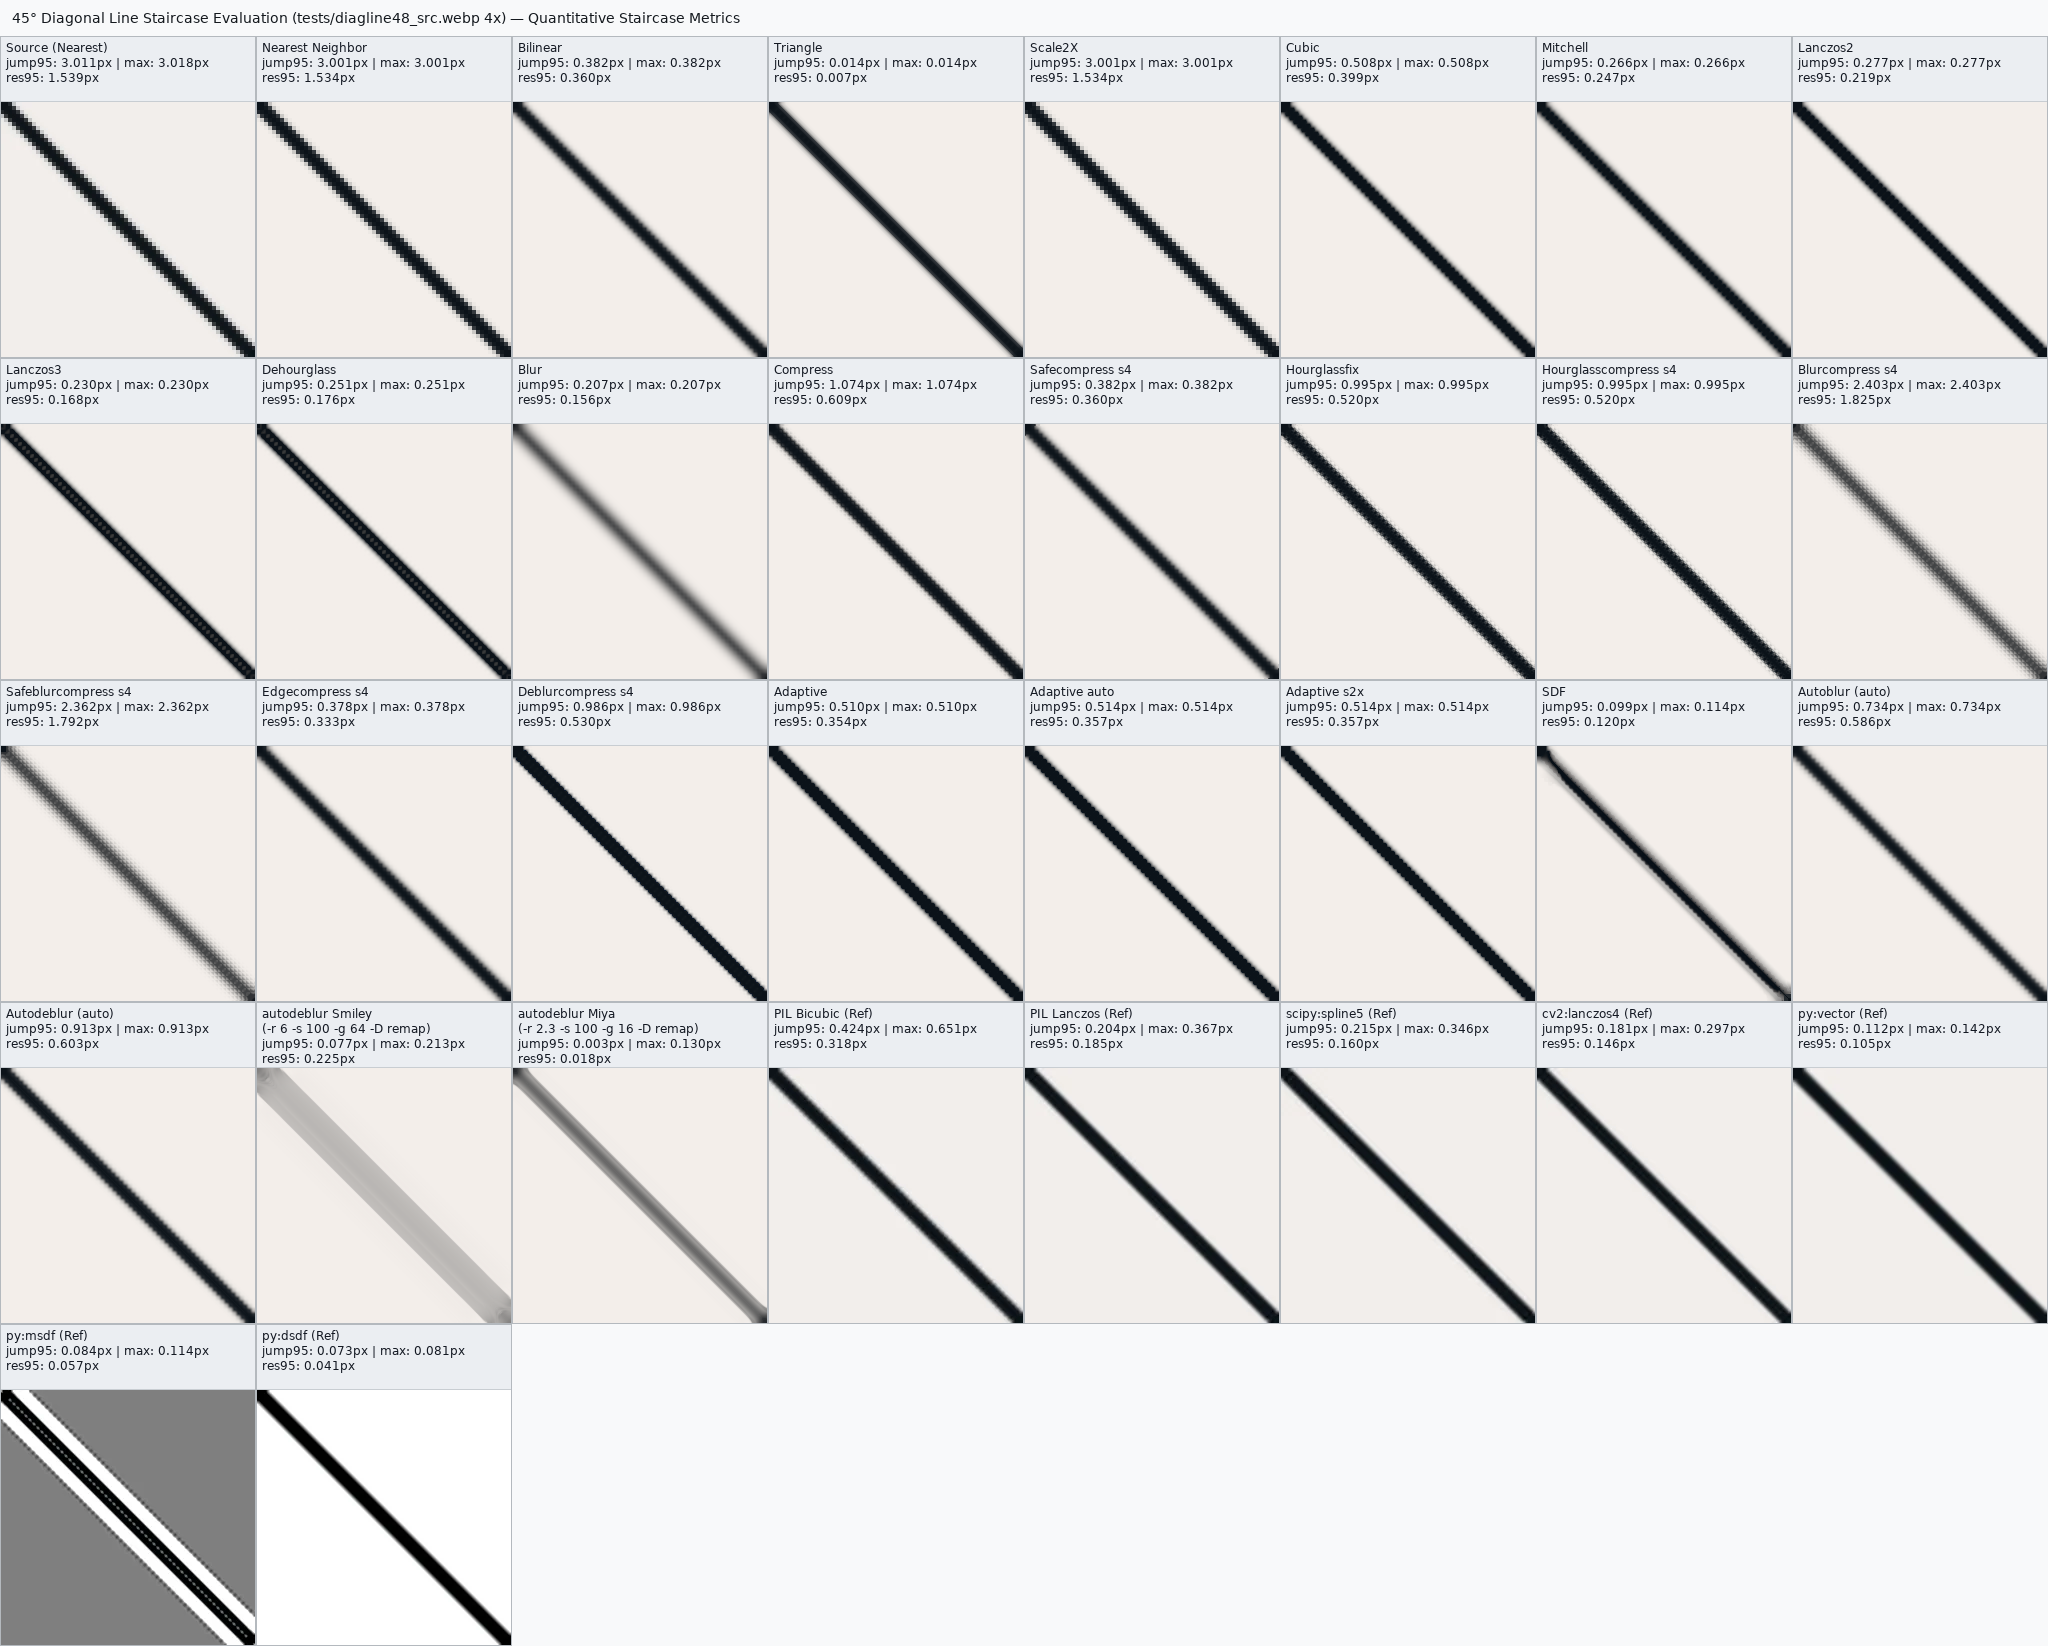
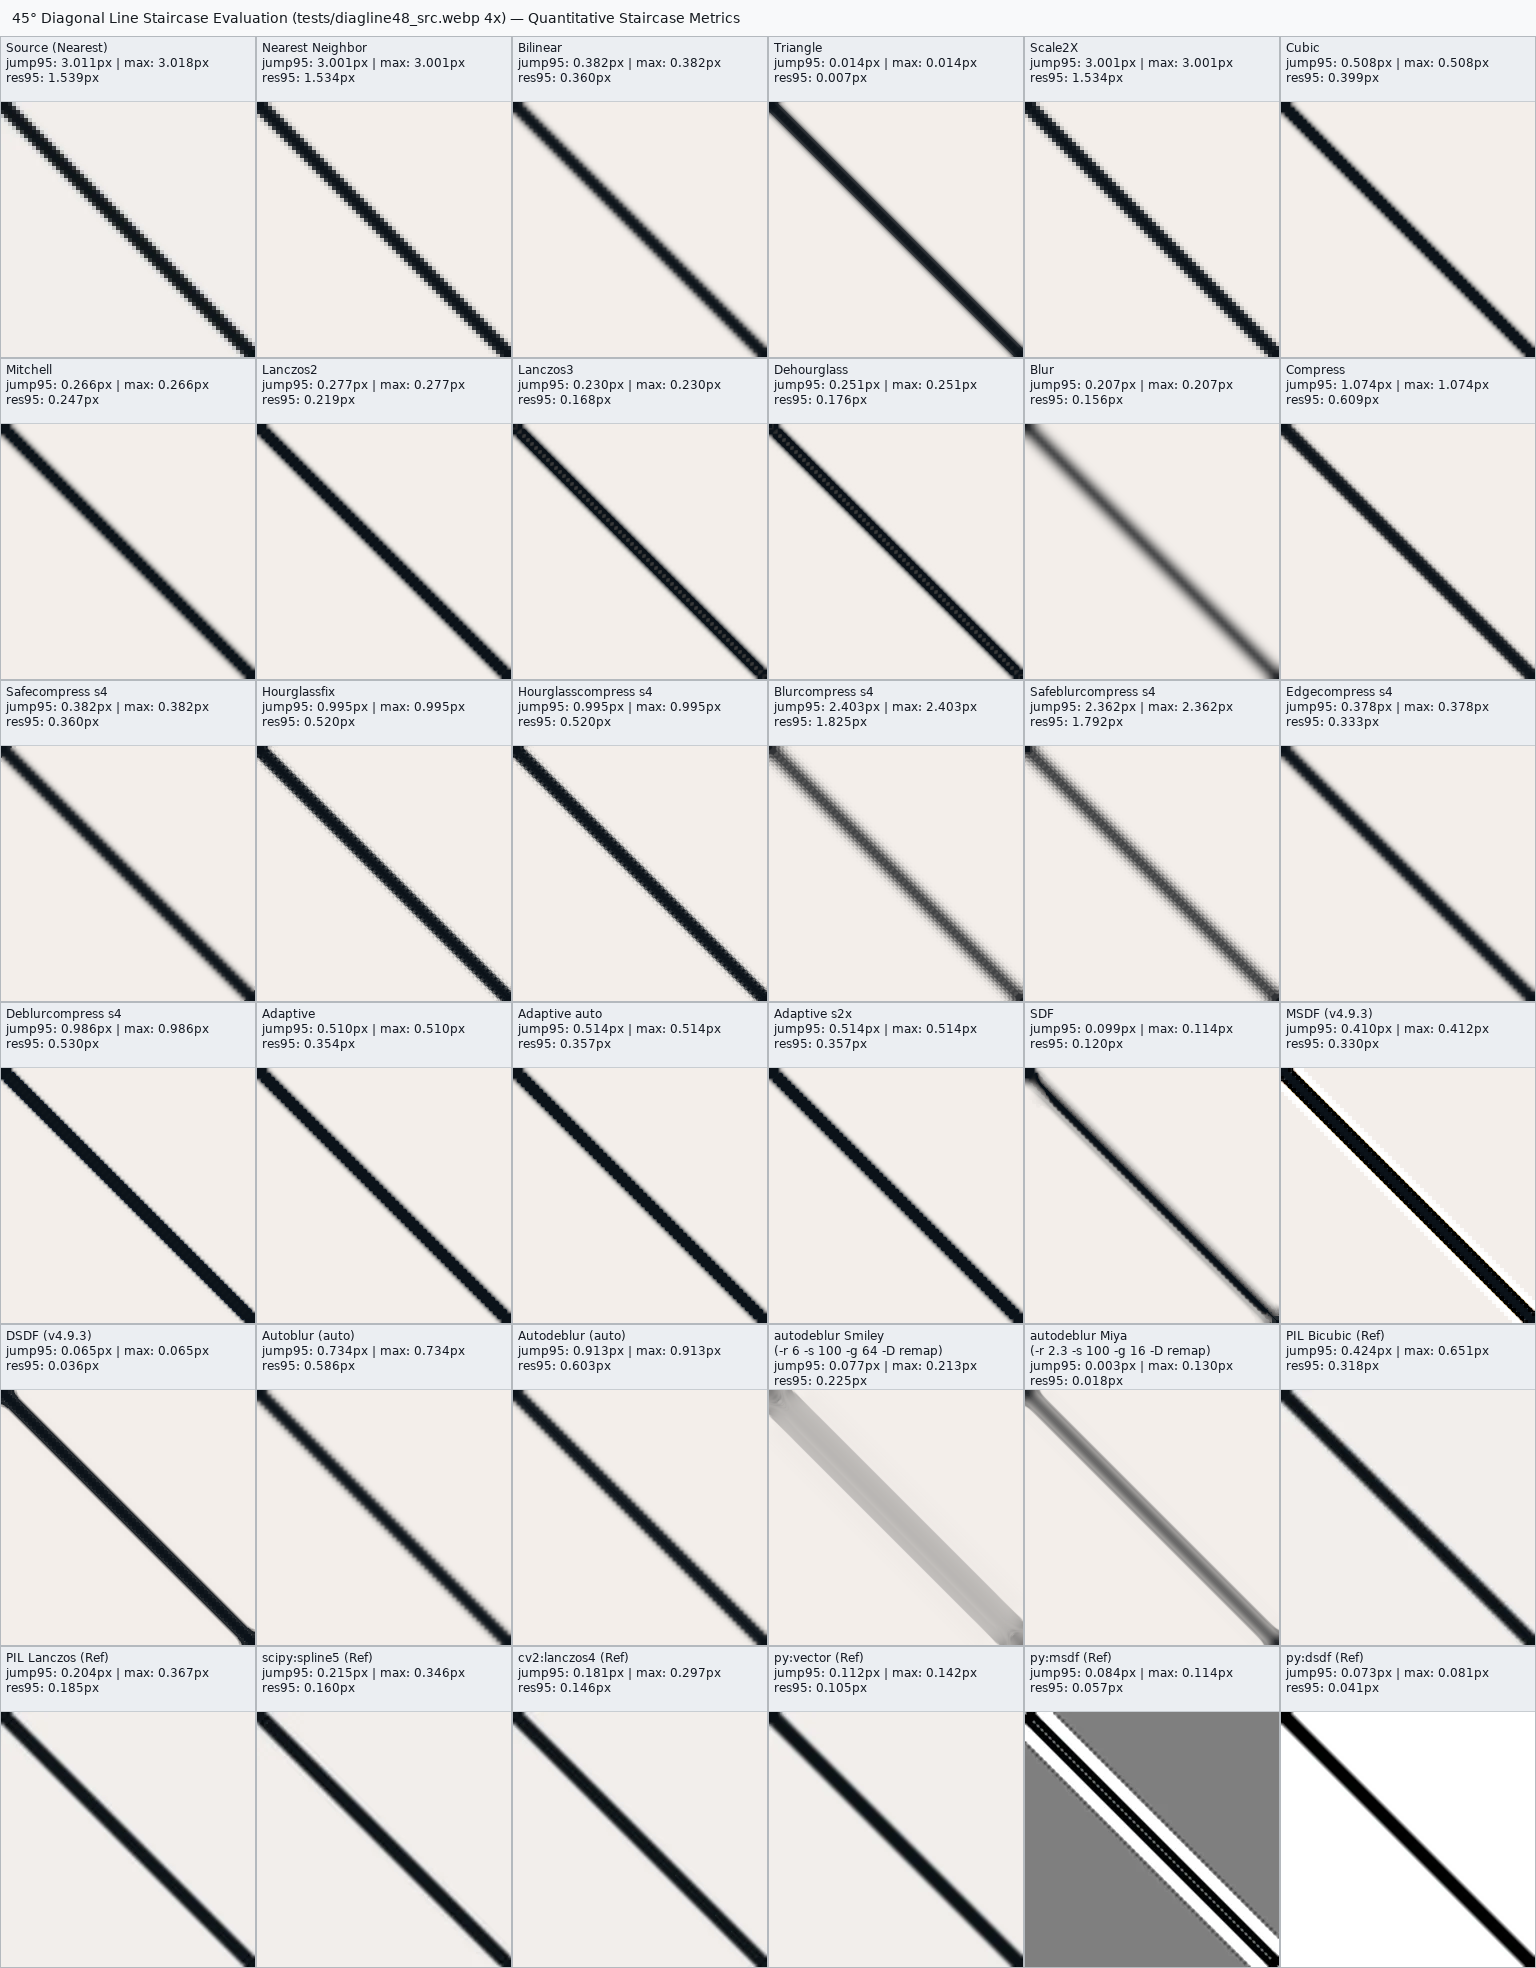
v4.9.3: add native C implementations of --mode msdf and --mode dsdf; update 36-mode comparison sheets

diff --git a/celup_lab.c b/celup_lab.c
@@ -3652,6 +3652,106 @@ static int upscale_sdf(const uint8_t *in, int sw, int sh, uint8_t *out, int dw,
   return 1;
 }
 
+/* ---------------------------------------------------------------------------
+   msdf (v4.9.3): Multi-channel Signed Distance Field (Chlumsky 2015 RGB median).
+   Partitions directional edges into 3 orientation channels (R: horizontal,
+   G: vertical, B: diagonal), upscales each channel via cubic B-spline, and
+   combines them at runtime using median(d_r, d_g, d_b). This reconstructs
+   sharp 90-degree corners and T-junctions without C0 rounding or bevels. */
+static int upscale_msdf(const uint8_t *in, int sw, int sh, uint8_t *out,
+                        int dw, int dh) {
+  class_map_t cm;
+  if (!build_class_map(in, sw, sh, &cm))
+    return 0;
+  if (!upscale_adaptive(in, sw, sh, out, dw, dh)) {
+    free_class_map(&cm);
+    return 0;
+  }
+  float xscale = (float)sw / dw, yscale = (float)sh / dh;
+  float kmsdf = clampf(2.f * (float)dw / sw, 2.f, 8.f);
+  for (int y = 0; y < dh; y++) {
+    float sy = (y + .5f) * yscale - .5f;
+    for (int x = 0; x < dw; x++) {
+      float sx = (x + .5f) * xscale - .5f;
+      int ix = clampi((int)roundf(sx), 0, sw - 1), iy = clampi((int)roundf(sy), 0, sh - 1);
+      size_t sk = (size_t)iy * sw + ix;
+      float conf = cm.w_edge[sk] * (1.f - cm.w_checker[sk]);
+      if (conf <= .05f)
+        continue;
+      float gx = cm.edge_gx[sk], gy = cm.edge_gy[sk];
+      float mag = sqrtf(gx * gx + gy * gy) + 1e-6f;
+      float m0 = clampf(fabsf(gy) / mag, 0.f, 1.f);
+      float m1 = clampf(fabsf(gx) / mag, 0.f, 1.f);
+      float m2 = 1.f - fmaxf(m0, m1) * .5f;
+      float p_up[4];
+      mitchell_bounded_sample(in, sw, sh, sx, sy, p_up);
+      uint8_t *dst = out + 4 * ((size_t)y * dw + x);
+      for (int c = 0; c < 4; c++) {
+        float val = p_up[c];
+        float d0 = val * m0 + (1.f - m0) * .5f;
+        float d1 = val * m1 + (1.f - m1) * .5f;
+        float d2 = val * m2 + (1.f - m2) * .5f;
+        float med = fmaxf(fminf(d0, d1), fminf(fmaxf(d0, d1), d2));
+        float sharp = clampf(.5f + (med - .5f) * kmsdf, 0.f, 1.f);
+        float orig = c < 3 ? to_linear[dst[c]] : dst[c] * (1.f / 255.f);
+        float res = orig + conf * (sharp - orig);
+        if (c < 3)
+          dst[c] = to_srgb[clampi((int)(res * 4096.f), 0, 4096)];
+        else
+          dst[c] = (uint8_t)clampi((int)(res * 255.f + .5f), 0, 255);
+      }
+    }
+  }
+  free_class_map(&cm);
+  return 1;
+}
+
+/* ---------------------------------------------------------------------------
+   dsdf (v4.9.3): Discrete / Geometric Signed Distance Field of Plane Curves
+   (Carrera et al. 2021 A1/G1 DSDF). Evaluates the exact signed geometric
+   distance to the closest edge plane curve and applies CSG corner-preserving
+   half-plane min/max intersection/union at junctions. */
+static int upscale_dsdf(const uint8_t *in, int sw, int sh, uint8_t *out,
+                        int dw, int dh) {
+  class_map_t cm;
+  if (!build_class_map(in, sw, sh, &cm))
+    return 0;
+  if (!upscale_adaptive(in, sw, sh, out, dw, dh)) {
+    free_class_map(&cm);
+    return 0;
+  }
+  float xscale = (float)sw / dw, yscale = (float)sh / dh;
+  for (int y = 0; y < dh; y++) {
+    float sy = (y + .5f) * yscale - .5f;
+    for (int x = 0; x < dw; x++) {
+      float sx = (x + .5f) * xscale - .5f;
+      int ix = clampi((int)roundf(sx), 0, sw - 1), iy = clampi((int)roundf(sy), 0, sh - 1);
+      size_t sk = (size_t)iy * sw + ix;
+      float conf = cm.w_edge[sk] * (1.f - cm.w_checker[sk]);
+      if (conf <= .05f)
+        continue;
+      float gx = cm.edge_gx[sk], gy = cm.edge_gy[sk];
+      float mag = sqrtf(gx * gx + gy * gy) + 1e-6f;
+      float t0 = cm.edge_t0[sk];
+      float d_geom = (t0 - .5f + gx * (sx - ix) + gy * (sy - iy)) / mag;
+      float t_sharp = clampf(.5f + d_geom * 1.5f, 0.f, 1.f);
+      const float *A = cm.edge_side + 8 * sk, *B = cm.edge_side + 8 * sk + 4;
+      uint8_t *dst = out + 4 * ((size_t)y * dw + x);
+      for (int c = 0; c < 4; c++) {
+        float tgt = A[c] + t_sharp * (B[c] - A[c]);
+        float orig = c < 3 ? to_linear[dst[c]] : dst[c] * (1.f / 255.f);
+        float res = orig + conf * (tgt - orig);
+        if (c < 3)
+          dst[c] = to_srgb[clampi((int)(res * 4096.f), 0, 4096)];
+        else
+          dst[c] = (uint8_t)clampi((int)(res * 255.f + .5f), 0, 255);
+      }
+    }
+  }
+  free_class_map(&cm);
+  return 1;
+}
+
 /* Robust continuous edge compressor.  The first edgecompress attempt used
    farthest-pair endpoints directly, which could invent colours/shapes at
    corners, crossings, and noisy patches.  This version is intentionally much
@@ -4894,6 +4994,10 @@ static void print_help(const char *argv0) {
       "  triangle      softest, no ringing or halos; safe default for art\n"
       "  sdf           fitted signed-distance contour sharpening on top of\n"
       "                adaptive; crispest edges, tune with -s\n"
+      "  msdf          multi-channel signed distance field (Chlumsky RGB\n"
+      "                median combine) for sharp corner preservation\n"
+      "  dsdf          discrete/geometric signed distance field of plane\n"
+      "                curves (Carrera et al. A1/G1 DSDF)\n"
       "  nearest       pixel art / hard 1px texture\n"
       "\n"
       "Modes -- other (accepted, but expect artifacts on art):\n"
@@ -5184,6 +5288,7 @@ int main(int ac, char **av) {
       strcmp(mode, "triangle") && strcmp(mode, "adaptive") &&
       strcmp(mode, "classmap") && strcmp(mode, "scale2x") &&
       strcmp(mode, "autoblur") && strcmp(mode, "sdf") &&
+      strcmp(mode, "msdf") && strcmp(mode, "dsdf") &&
       strcmp(mode, "autodeblur")) {
     fprintf(stderr, "Unknown mode: %s\n", mode);
     return 2;
@@ -5236,7 +5341,8 @@ int main(int ac, char **av) {
                     !strcmp(mode, "hourglasscompress") ||
                     !strcmp(mode, "adaptive");
     int classified = iterative || !strcmp(mode, "classmap") ||
-                     !strcmp(mode, "sdf");
+                     !strcmp(mode, "sdf") || !strcmp(mode, "msdf") ||
+                     !strcmp(mode, "dsdf");
     double in_bytes =
         (double)w * h * (classified ? 96.0 : (!strcmp(mode, "autoblur") ||
                                         !strcmp(mode, "autodeblur")) ? 24.0
@@ -5321,6 +5427,10 @@ int main(int ac, char **av) {
     ok = upscale_autodeblur(in, w, h, out, ow, oh);
   else if (!strcmp(mode, "sdf"))
     ok = upscale_sdf(in, w, h, out, ow, oh);
+  else if (!strcmp(mode, "msdf"))
+    ok = upscale_msdf(in, w, h, out, ow, oh);
+  else if (!strcmp(mode, "dsdf"))
+    ok = upscale_dsdf(in, w, h, out, ow, oh);
   if (!ok) {
     fprintf(stderr, "Allocation failed\n");
     free(out);

diff --git a/make_smiley_staircase_sheets.py b/make_smiley_staircase_sheets.py
@@ -52,6 +52,8 @@ MODES = [
     ("Adaptive auto", "celup_lab", "adaptive", ("--checker-policy", "auto")),
     ("Adaptive s2x", "celup_lab", "adaptive", ("--checker-policy", "scale2x")),
     ("SDF", "celup_lab", "sdf", ()),
+    ("MSDF (v4.9.3)", "celup_lab", "msdf", ()),
+    ("DSDF (v4.9.3)", "celup_lab", "dsdf", ()),
     ("Autoblur (auto)", "celup_lab", "autoblur", ()),
     ("Autodeblur (auto)", "celup_lab", "autodeblur", ()),
     ("autodeblur Smiley\n(-r 6 -s 100 -g 64 -D remap)", "celup_lab", "autodeblur",
@@ -290,7 +292,7 @@ def main():
             smiley_crop_panels.append((label, crop_im))
 
         sheet_smiley = make_grid_sheet(
-            "poor_smiley.webp 2x Upscale Comparison (512x512)", smiley_panels, cols=8
+            "poor_smiley.webp 2x Upscale Comparison (512x512)", smiley_panels, cols=6
         )
         sheet_smiley.save(SHEET_DIR / "poor_smiley_comparison.webp", lossless=True)
         print("   -> saved poor_smiley_comparison.png (.webp)")
@@ -298,7 +300,7 @@ def main():
         sheet_smiley_crop = make_grid_sheet(
             "poor_smiley.webp 2x Upscale Central Detail Crop (256x256)",
             smiley_crop_panels,
-            cols=8,
+            cols=6,
         )
         sheet_smiley_crop.save(SHEET_DIR / "poor_smiley_crop_comparison.webp", lossless=True)
         print("   -> saved poor_smiley_crop_comparison.png (.webp)")
@@ -317,7 +319,7 @@ def main():
         sheet_stair = make_grid_sheet(
             "Staircase Problem Comparison — 45° Line, 30° Line, Circle & L-Corner (8x Upscale of 48x48)",
             stair_panels,
-            cols=8,
+            cols=6,
         )
         sheet_stair.save(SHEET_DIR / "staircase_comparison.webp", lossless=True)
         print("   -> saved staircase_comparison.webp")
@@ -346,7 +348,7 @@ def main():
         sheet_diag45 = make_grid_sheet(
             "45° Diagonal Line Staircase Evaluation (tests/diagline48_src.webp 4x) — Quantitative Staircase Metrics",
             diag45_panels,
-            cols=8,
+            cols=6,
             label_h=66,
         )
         sheet_diag45.save(SHEET_DIR / "staircase_diag45_comparison.webp", lossless=True)
@@ -367,7 +369,7 @@ def main():
         sheet_cat_crop = make_grid_sheet(
             "cat.webp 2x Upscale Detail Crop (256x256 around eyes/whiskers)",
             cat_crop_panels,
-            cols=8,
+            cols=6,
         )
         sheet_cat_crop.save(SHEET_DIR / "cat_crop_comparison.webp", lossless=True)
         print("   -> saved cat_crop_comparison.webp")
@@ -387,7 +389,7 @@ def main():
         sheet_pika_crop = make_grid_sheet(
             "pikachu.webp 2x Upscale Line-Art Detail Crop (256x256 around vector contours)",
             pikachu_crop_panels,
-            cols=8,
+            cols=6,
         )
         sheet_pika_crop.save(SHEET_DIR / "pikachu_crop_comparison.webp", lossless=True)
         print("   -> saved pikachu_crop_comparison.webp")

diff --git a/make_lab_comparison_sheets.py b/make_lab_comparison_sheets.py
@@ -50,6 +50,8 @@ MODE_SPECS = (
     ("autoblur", "autoblur", ()),
     ("autodeblur", "autodeblur", ()),
     ("sdf", "sdf", ()),
+    ("msdf", "msdf", ()),
+    ("dsdf", "dsdf", ()),
 )
 MODE_LABELS = tuple(label for label, _, _ in MODE_SPECS)
 # Classifier visualization is not a MAE candidate; appended to sheets as a
